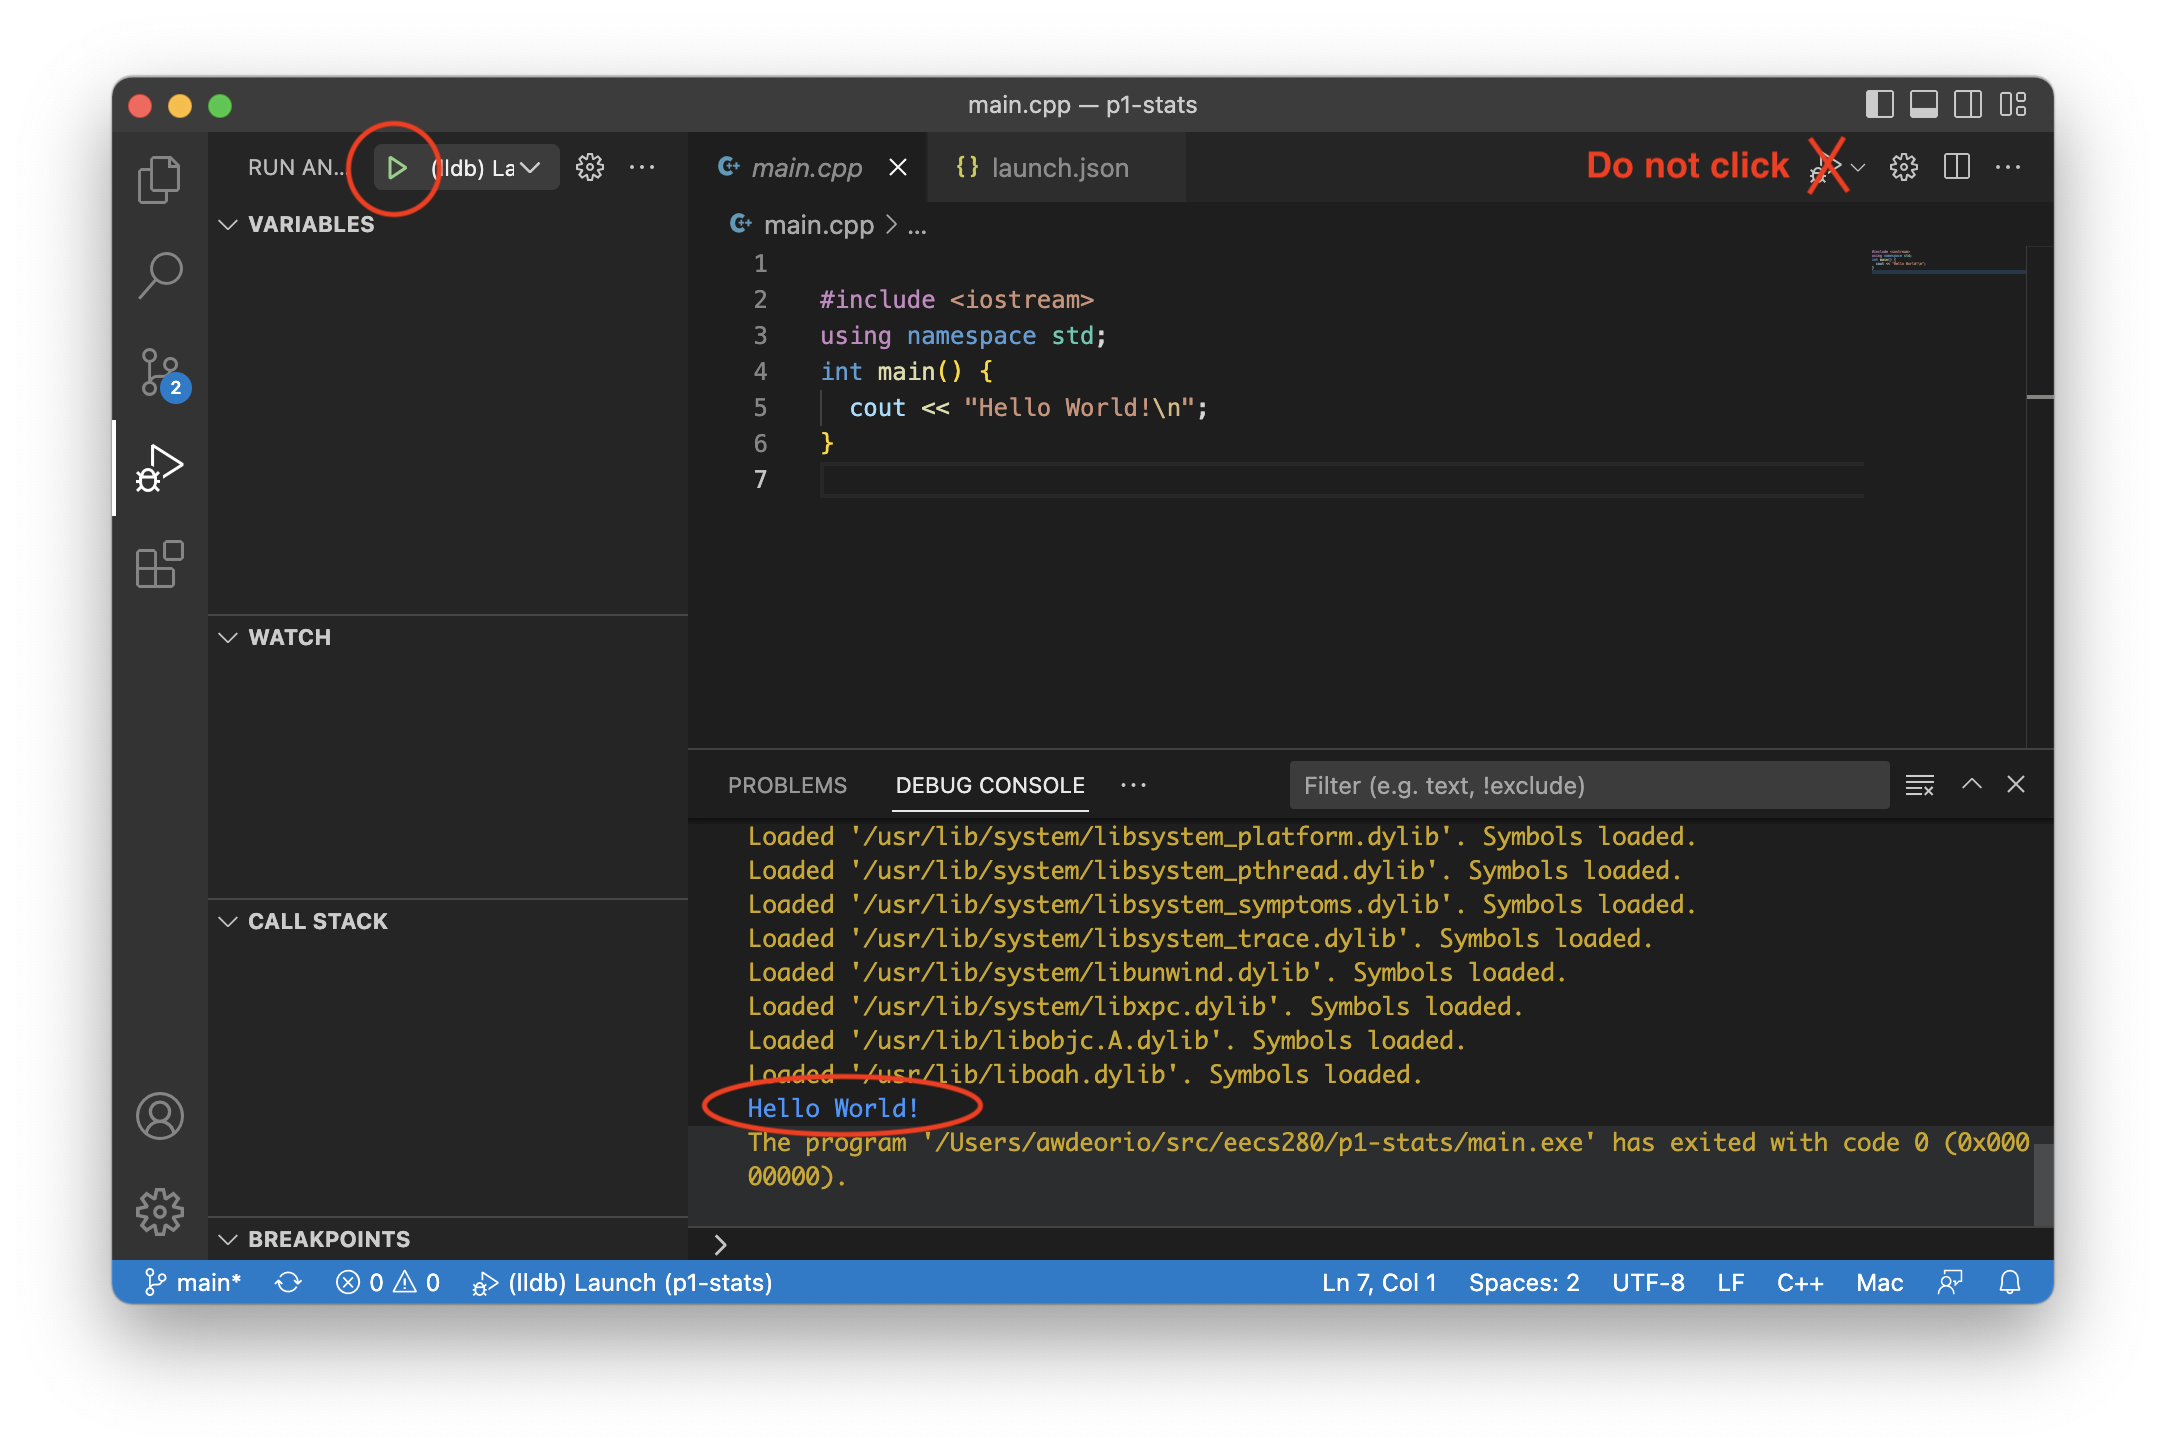
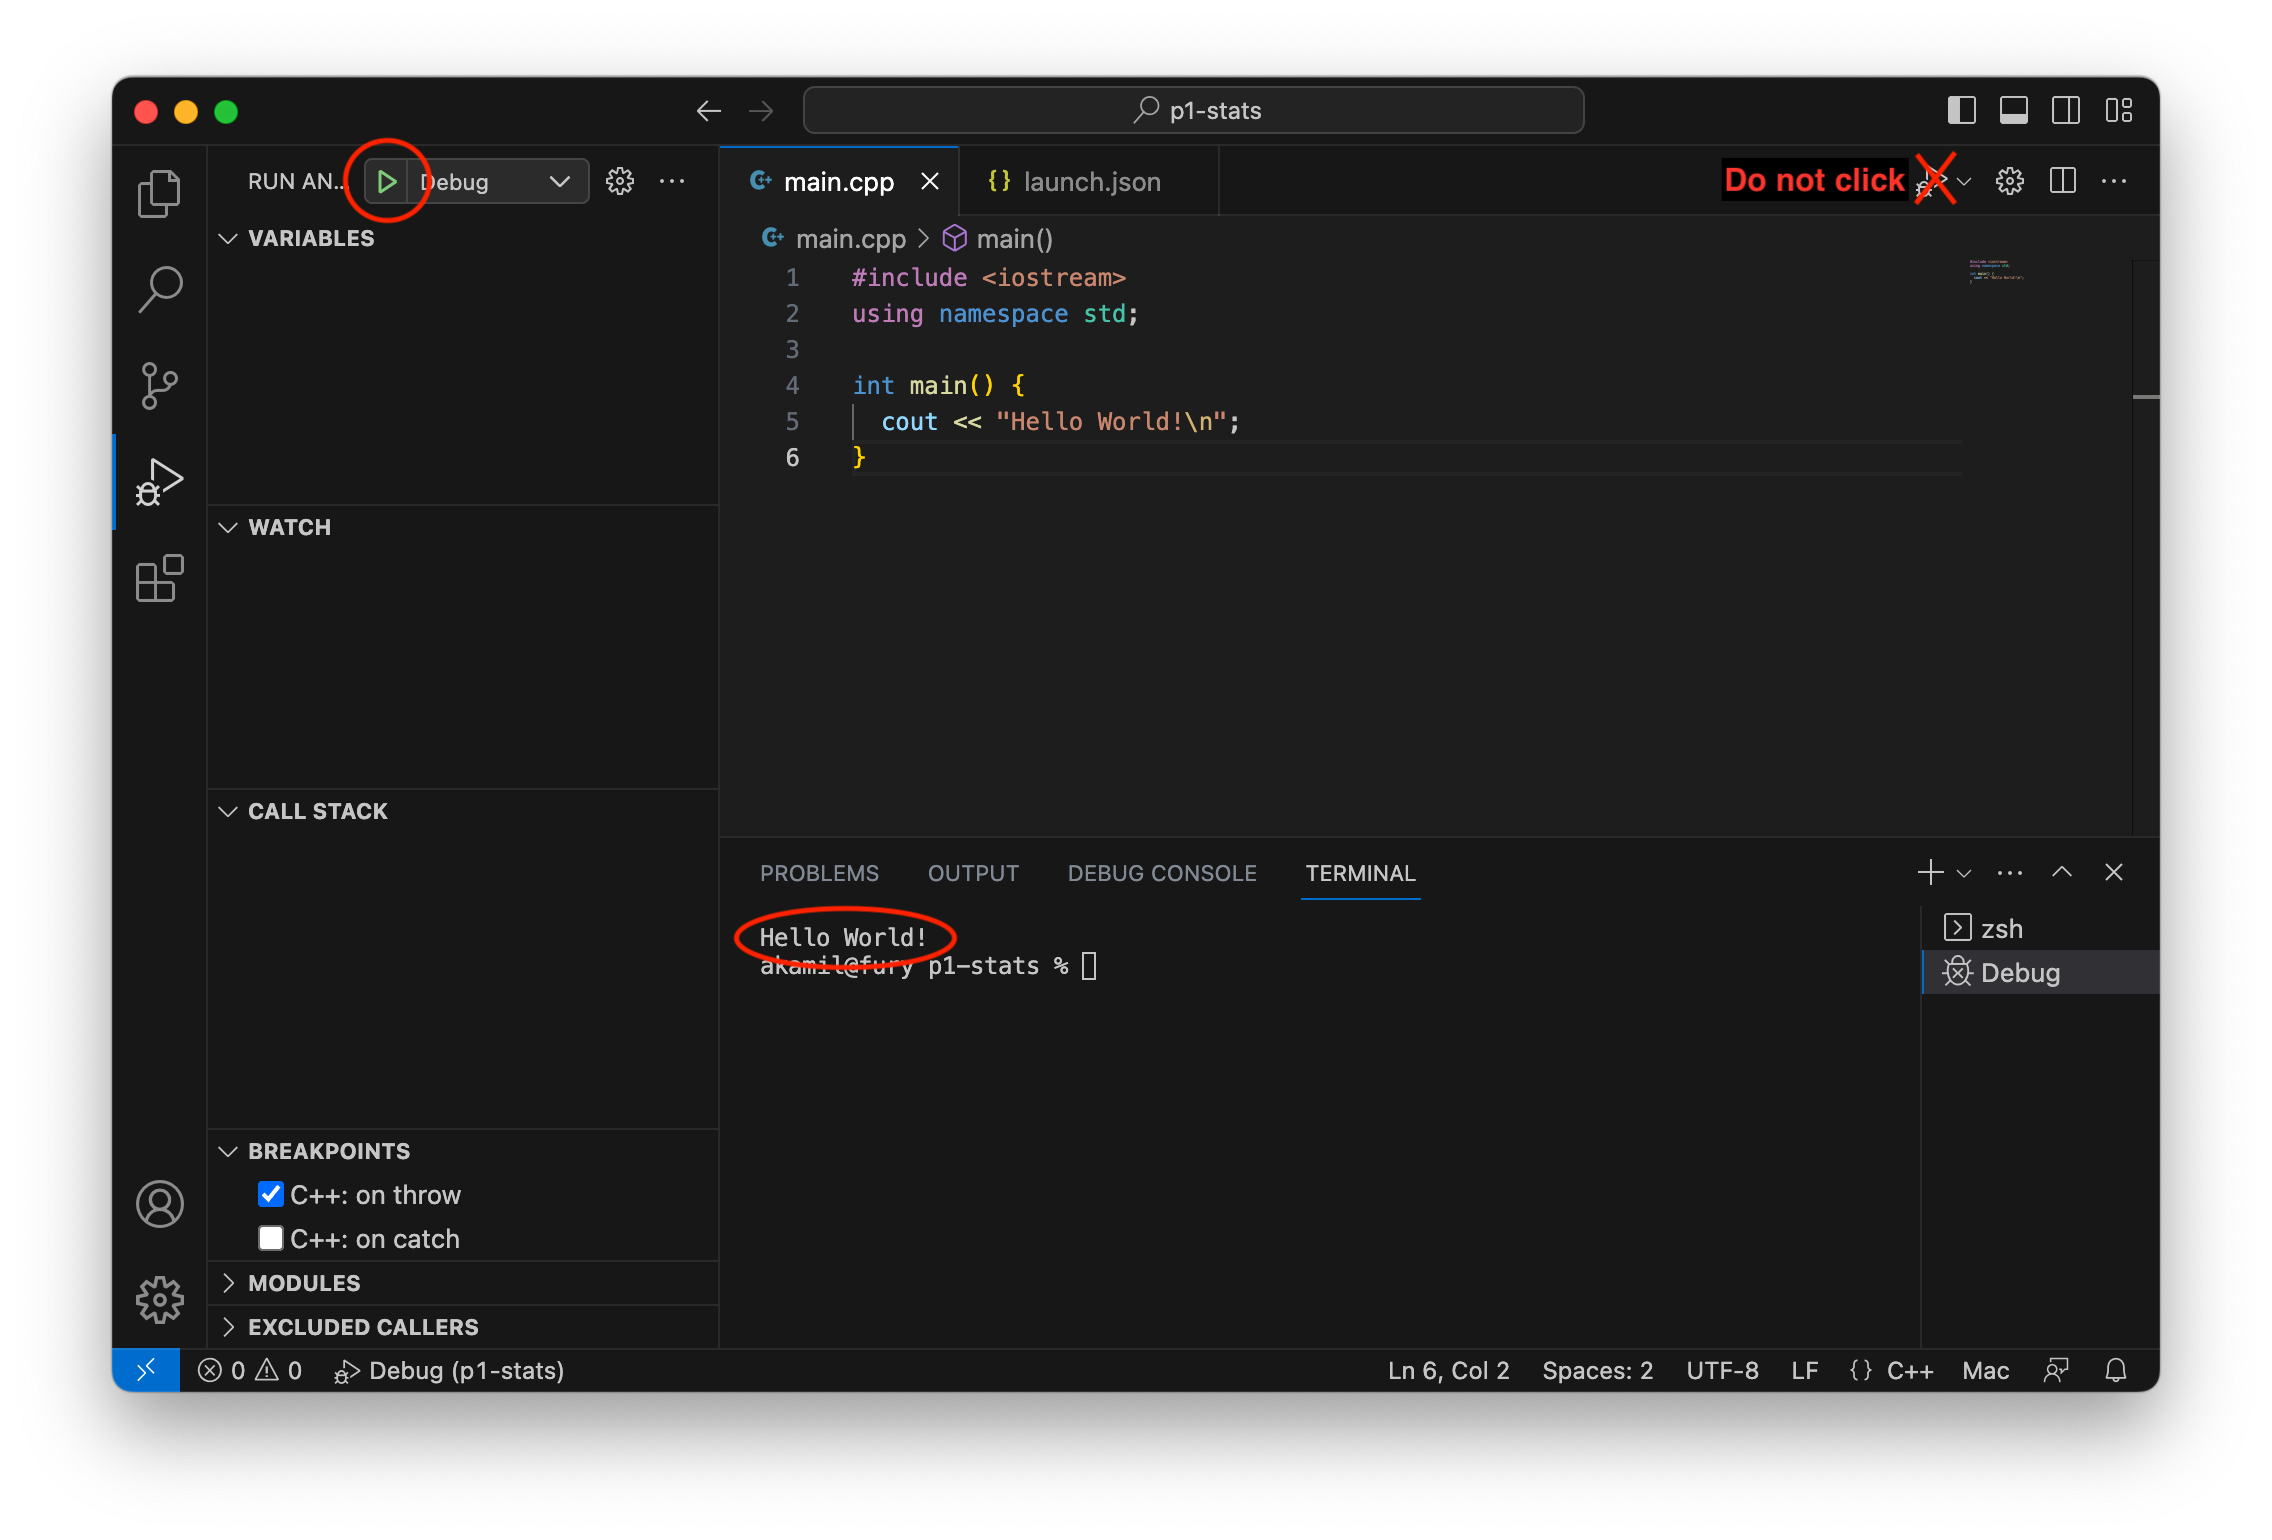
Move sanitizer setting change to macOS-specific section. Fixes #135. Additional clarifications and updates.

diff --git a/docs/setup_vscode.md b/docs/setup_vscode.md
@@ -334,11 +334,11 @@ Click "create a launch.json file".
 
 <img src="images/vscode031.png" width="768px" />
 
-Select C++ (GDB/LLDB).
+If you are prompted to select a debugger, select C++ (GDB/LLDB).
 
 <img src="images/vscode031a.png" width="768px" />
 
-Click "Add Configuration".
+Click "Add Configuration".  If the button does not appear in the bottom-right corner, select "Run" from the top menu, then select "Add Configuration".
 
 <img src="images/vscode032.png" width="768px" />
 
@@ -365,7 +365,7 @@ If you already have a working `launch.json` and want to debug a different progra
 
 ### Run
 
-Click the triangle to run.  You'll see your program's output in the debug console.
+Click the triangle to run.  You'll see your program's output in the terminal window at the bottom.
 
 <img src="images/vscode035.png" width="768px" />
 
@@ -382,10 +382,6 @@ We recommend enabling the address sanitizer and undefined behavior sanitizer. Th
 
 First, edit your `Makefile` and add the `CXXFLAGS` recommended by the [ASAN Quick Start](setup_asan.html#quick-start).
 
-Open Settings on VSCode (**macOS:** Code > Settings > Settings, **Windows:** File > Preferences > Settings). Search for "lldb: show disassembly" (without the quotes) and set the option to `never`.  (See [ASAN error shows assembly code](#asan-error-shows-assembly-code) for an explanation.)
-
-<img src="images/vscode037.png" width="768px" />
-
 #### Windows/WSL or Linux `launch.json` changes
 Edit the `"environment"` property in your `launch.json`.  If there's already an empty `"environment": []`, replace it.  If there isn't one, add it after the `"args"` property.
 
@@ -399,7 +395,7 @@ Edit the `"environment"` property in your `launch.json`.  If there's already an 
 ```
 {: data-highlight="3-4" }
 
-#### macOS `launch.json` changes
+#### macOS `launch.json` and settings changes
 Edit the `"env"` property in your `launch.json`.  If there's already an empty `"env": {}`, replace it.  If there isn't one, add it after the `"args"` property.
 
 ```json
@@ -408,6 +404,10 @@ Edit the `"env"` property in your `launch.json`.  If there's already an empty `"
   },
 ```
 {: data-highlight="2" }
+
+Open Settings on VSCode (**macOS:** Code > Settings > Settings). Search for "lldb: show disassembly" (without the quotes) and set the option to `never`.  (See [ASAN error shows assembly code](#asan-error-shows-assembly-code) for an explanation.)
+
+<img src="images/vscode037.png" width="768px" />
 
 ### Input redirection
 <div class="primer-spec-callout info" markdown="1">
